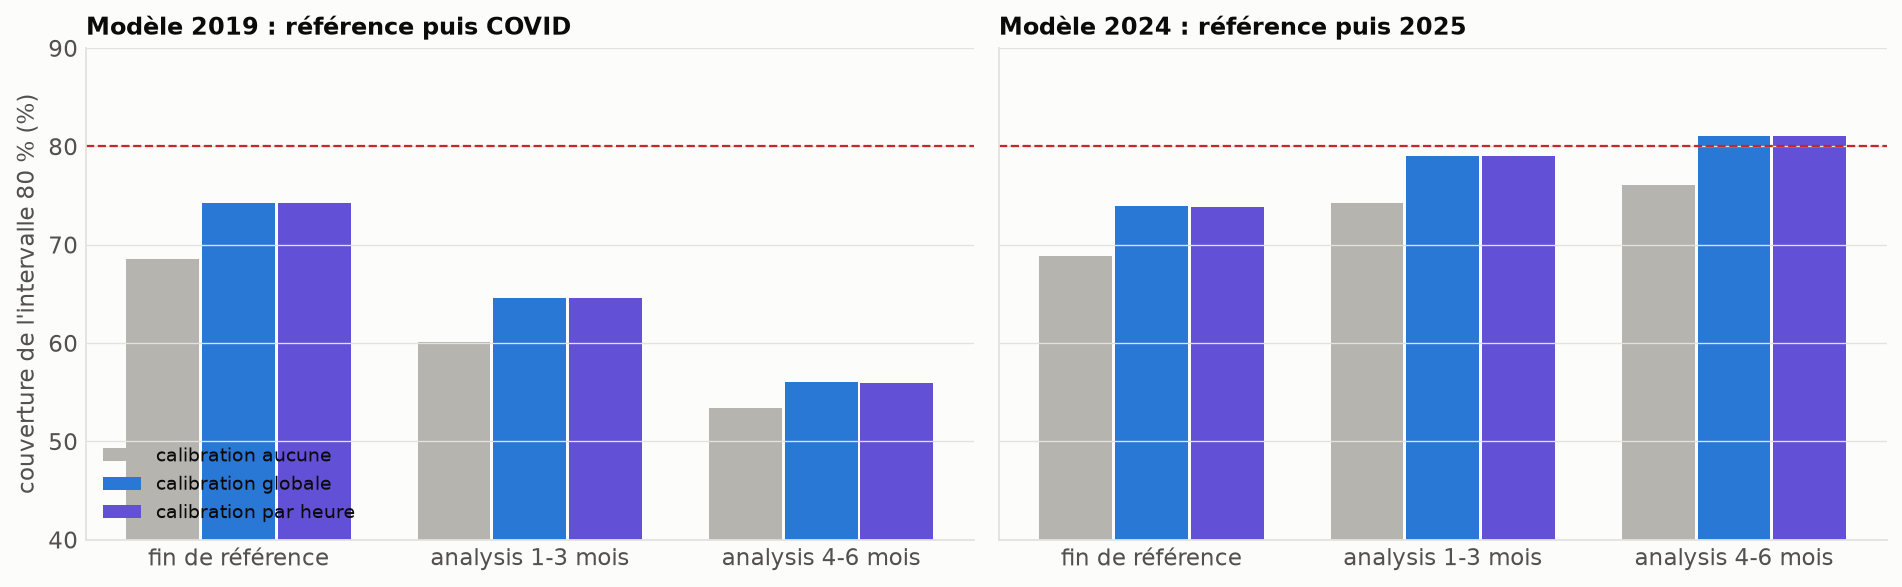
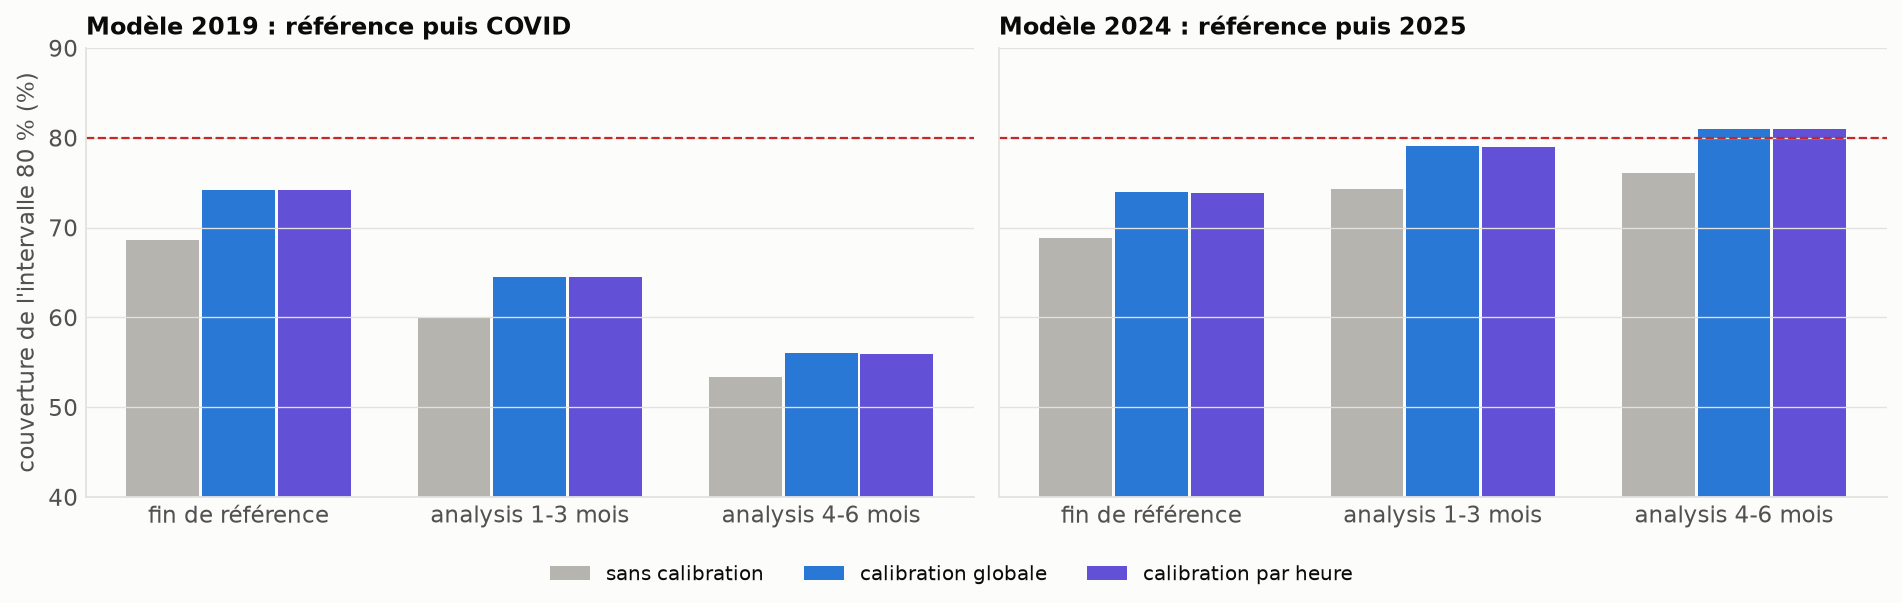
fix(figures): calibration conforme, légende sous les panneaux, « sans calibration »

diff --git a/scripts/make_result_figures.py b/scripts/make_result_figures.py
@@ -944,14 +944,16 @@ def e0_conformal() -> None:
                 .set_index("period")
                 .loc[periods, "coverage"]
             )
-            ax.bar(x + (j - 1) * 0.26, 100 * v, width=0.25, color=col, label=f"calibration {m}")
+            lab = "sans calibration" if m == "aucune" else f"calibration {m}"
+            ax.bar(x + (j - 1) * 0.26, 100 * v, width=0.25, color=col, label=lab)
         ax.axhline(80, color=viz.ALERT, ls="--", lw=1)
         ax.set_xticks(x, ["fin de référence", "analysis 1-3 mois", "analysis 4-6 mois"])
         ax.set_title(title, fontsize=11)
     axes[0].set_ylabel("couverture de l'intervalle 80 % (%)")
     axes[0].set_ylim(40, 90)
-    axes[0].legend(loc="lower left", fontsize=8.5)
-    fig.tight_layout()
+    handles, labels = axes[0].get_legend_handles_labels()
+    fig.legend(handles, labels, loc="lower center", ncol=3, frameon=False, fontsize=9)
+    fig.tight_layout(rect=(0, 0.07, 1, 1))  # légende sous les deux panneaux
     viz.save(fig, "e0_conforme")
 
 
